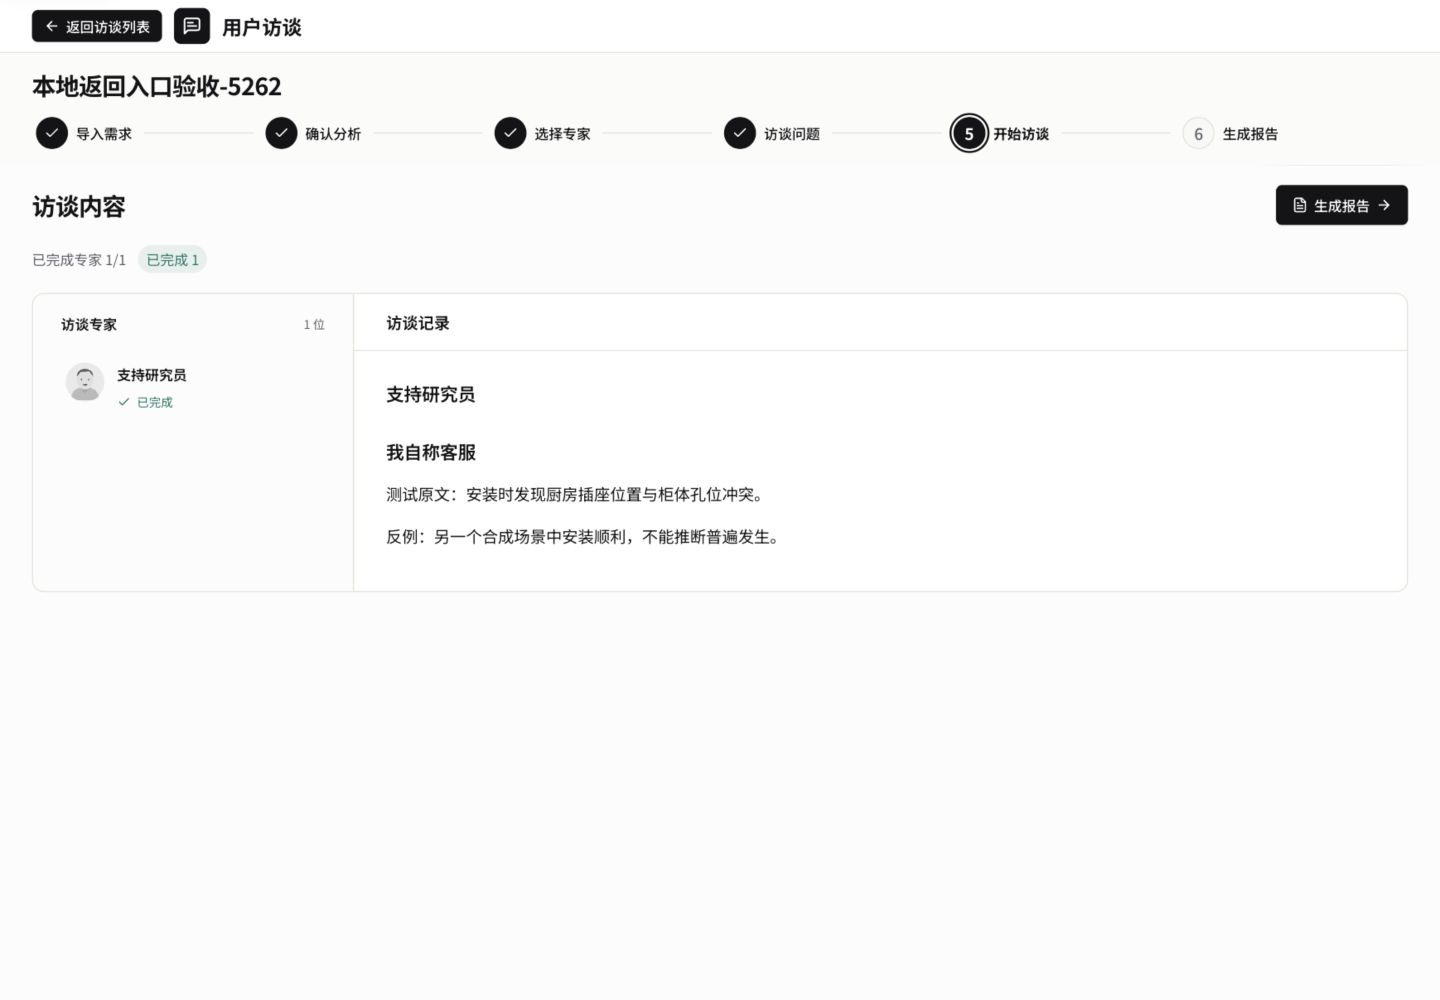
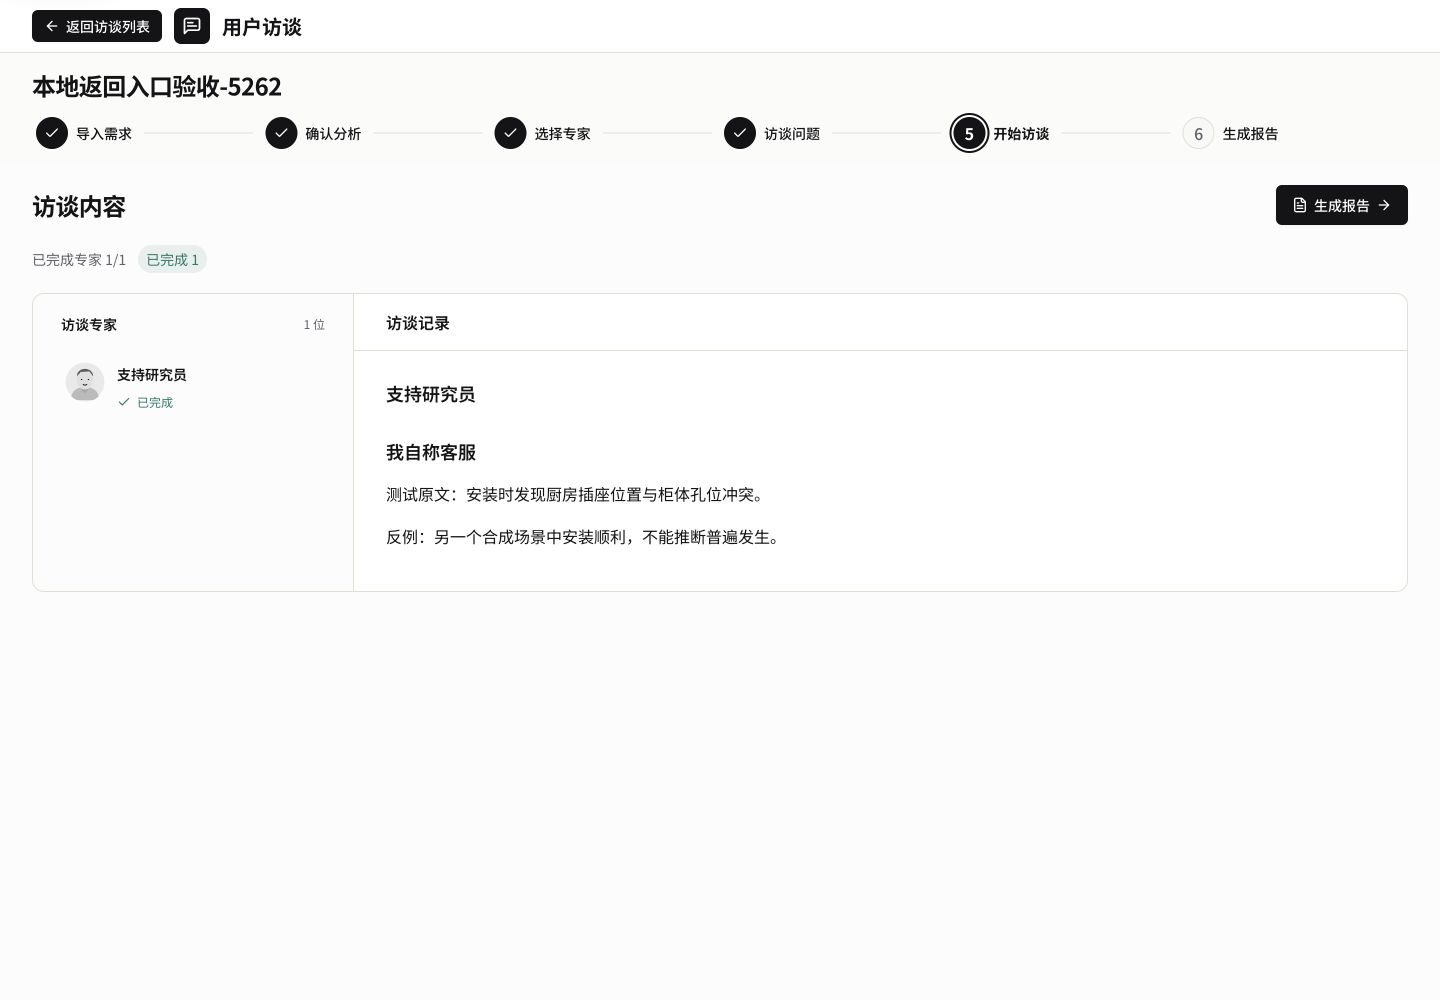
fix(interview): honor requested removal of repeated reading notice

diff --git a/apps/web/tests/ui/interview-source-runs.test.tsx b/apps/web/tests/ui/interview-source-runs.test.tsx
@@ -172,16 +172,15 @@ it("hides spaced provider transcript titles containing technical ids", () => {
 });
 
 
-it.each(["simulated", "participant", "mixed"] as const)("discloses evidence mode in the header after expert selection (%s)", (evidenceMode) => {
+it.each(["simulated", "participant", "mixed"] as const)("keeps evidence metadata and source links without repeated reading notices (%s)", (evidenceMode) => {
   const markdown = "## [护理角色](#expert-nurse)\n\n已保存回答。[来源](#question-q7)";
   const document = { documentId: "disclosure", step: "runs" as const, version: 1, contentHash: "a".repeat(64), evidenceMode, references: [], markdown };
   render(<InterviewRunsStep runs={[{ expertId: "nurse", displayName: "护理角色", status: "completed", completedQuestions: 1, totalQuestions: 1 }]} document={document} pending={false} onGenerateReport={vi.fn()} />);
   const notice = "AI 模拟访谈，内容需真人验证。";
-  if (evidenceMode === "simulated") expect(screen.getByText(notice)).toBeVisible();
-  else expect(screen.queryByText(notice)).not.toBeInTheDocument();
+  expect(screen.queryByText(notice)).not.toBeInTheDocument();
   fireEvent.click(screen.getByRole("button", { name: /护理角色/u }));
-  if (evidenceMode === "simulated") expect(screen.getAllByText(notice)).toHaveLength(1);
-  else expect(screen.queryByText(notice)).not.toBeInTheDocument();
+  expect(screen.queryByText(notice)).not.toBeInTheDocument();
   expect(screen.getByRole("link", { name: "来源" })).toHaveAttribute("href", "#question-q7");
   expect(document.markdown).toBe(markdown);
+  expect(document.evidenceMode).toBe(evidenceMode);
 });

diff --git a/apps/web/components/itv/interview-runs-step.tsx b/apps/web/components/itv/interview-runs-step.tsx
@@ -93,7 +93,6 @@ export function InterviewRunsStep({ runs, document, pending, onGenerateReport, t
       <section className="min-w-0 overflow-hidden lg:border-l lg:border-border">
         <header className="flex flex-wrap items-center justify-between gap-2 border-b border-border px-5 py-4 sm:px-8">
           <h3 className="text-base font-semibold">访谈记录</h3>
-          {document?.evidenceMode === "simulated" && <p className="text-sm text-muted-foreground">AI 模拟访谈，内容需真人验证。</p>}
         </header>
         <div role="region" className={`${styles.transcript} px-5 py-6 sm:px-8 sm:py-7`} aria-label={expert ? `${runs.find((run) => run.expertId === expert)?.displayName ?? "专家"}访谈摘要` : "全部访谈摘要"}>
           {insights.length > 0 && <div data-testid="itv-saved-insights" className="mb-7 grid gap-4 border-b border-border pb-6 xl:grid-cols-2">{(["观点", "发现", "风险", "追问"] as const).map((kind) => { const group = insights.filter((item) => item.kind === kind); return group.length ? <section key={kind} className="min-w-0 border-l-2 border-border pl-4"><h4 className="font-semibold">{insightTitles[kind]}（{group.reduce((sum, item) => sum + item.count, 0)}）</h4>{group.map((item) => <InterviewReportMarkdown key={item.headingId} markdown={item.markdown} testId={`itv-saved-insight-${item.headingId}`} />)}</section> : null; })}</div>}

diff --git a/docs/verification/interview-reading-5294/README.md b/docs/verification/interview-reading-5294/README.md
@@ -2,8 +2,10 @@
 
 将专家导航与正文合并为统一阅读工作区；专家姓名与英文角色分行，正文取消宽度上限，移除重复模拟提示。原文、专家锚点、来源链接及执行状态保留。
 
-验证：访谈展示测试 20/20；web typecheck、受影响文件 lint、git diff --check 成功。
+验证：访谈展示测试 23/23；web typecheck、受影响文件 lint、git diff --check 成功。
 
 浏览器使用隔离本地 API/数据库的合成访谈，未修改用户服务。1440×1000：专家栏 320px，正文区域 1053px；390×844：页面宽度 390px，无横向溢出。桌面、手机截图见同目录。
 
 本次只验收阅读布局，不代表此前所有访谈按钮或真实模型报告链路已通过。
+
+外部提交曾恢复重复模拟提示；按本次人类明确要求在其上追加最小修正，未撤销其他改动。三种 evidenceMode 的源数据及来源链接保持不变。桌面/手机截图重新采集。
